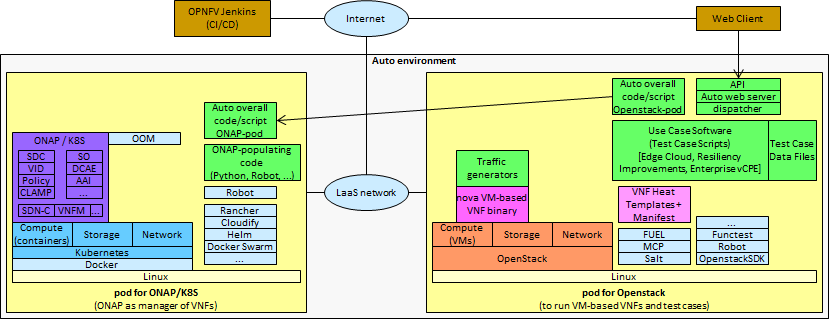
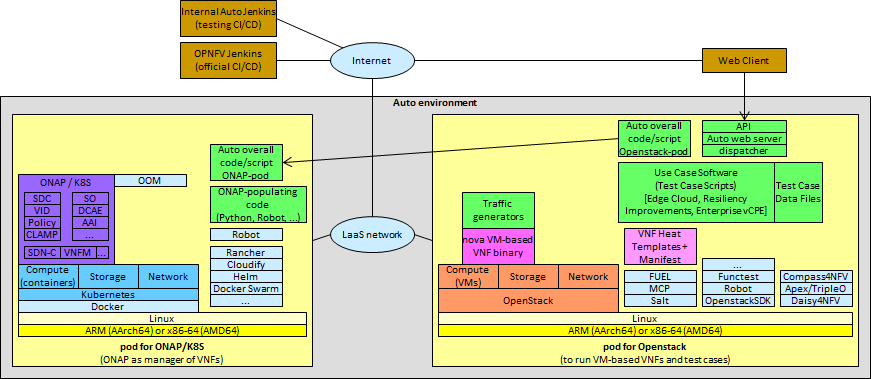
new version of Auto configuration guide for Gambia MS6
JIRA: AUTO-53

Updates, new content since last edit (R6.2, end of June 2018)

diff --git a/docs/release/configguide/Auto-featureconfig.rst b/docs/release/configguide/Auto-featureconfig.rst
@@ -17,9 +17,14 @@ Goal
 The goal of `Auto <http://docs.opnfv.org/en/latest/submodules/auto/docs/release/release-notes/index.html#auto-releasenotes>`_
 installation and configuration is to prepare an environment where the
 `Auto use cases <http://docs.opnfv.org/en/latest/submodules/auto/docs/release/userguide/index.html#auto-userguide>`_
-can be assessed, i.e. where the corresponding test cases can be executed and their results can be collected.
+can be assessed, i.e. where the corresponding test cases can be executed and their results can be collected for analysis.
+See the `Auto Release Notes <https://docs.opnfv.org/en/latest/submodules/auto/docs/release/release-notes/index.html#auto-releasenotes>`_
+for a discussion of the test results analysis loop.
 
 An instance of ONAP needs to be present, as well as a number of deployed VNFs, in the scope of the use cases.
+Simulated traffic needs to be generated, and then test cases can be executed. There are multiple parameters to
+the Auto environment, and the same set of test cases will be executed on each environment, so as to be able to
+evaluate the influence of each environment parameter.
 
 The initial Auto use cases cover:
 
@@ -29,35 +34,44 @@ The initial Auto use cases cover:
 * **Enterprise vCPE** (automation, cost optimization, and performance assurance of enterprise connectivity to Data Centers
   and the Internet)
 
-The general idea of Auto is to install an OPNFV environment (comprising at least one Cloud Manager),
+The general idea of the Auto feature configuration is to install an OPNFV environment (comprising at least one Cloud Manager),
 an ONAP instance, ONAP-deployed VNFs as required by use cases, possibly additional cloud managers not
 already installed during the OPNFV environment setup, traffic generators, and the Auto-specific software
 for the use cases (which can include test frameworks such as `Robot <http://robotframework.org/>`_ or
 `Functest <http://docs.opnfv.org/en/latest/submodules/functest/docs/release/release-notes/index.html#functest-releasenotes>`_).
+
 The ONAP instance needs to be configured with policies and closed-loop controls (also as required by use cases),
 and the test framework controls the execution and result collection of all the test cases. Then, test case execution
-results are analyzed, so as to fine-tune policies and closed-loop controls.
+results can be analyzed, so as to fine-tune policies and closed-loop controls, and to compare environment parameters.
 
-The following diagram illustrates two execution environments, for x86 architectures and for Arm architectures.
+The following diagram illustrates execution environments, for x86 architectures and for Arm architectures,
+and other environment parameters (see the Release Notes for a more detailed discussion on the parameters).
 The installation process depends on the underlying architecture, since certain components may require a
 specific binary-compatible version for a given x86 or Arm architecture. The preferred variant of ONAP is one
 that runs on Kubernetes, while all VNF types are of interest to Auto: VM-based or containerized (on any cloud
-manager), for x86 or for Arm. The initial VM-based VNFs will cover OpenStack, and in future versions,
-additional cloud managers will be considered. The configuration of ONAP and of test cases should not depend
-on the architecture.
+manager), for x86 or for Arm. In fact, even PNFs could be considered, to support the evaluation of hybrid PNF/VNF
+transition deployments (ONAP has the ability of also managing legacy PNFs).
+
+The initial VM-based VNFs will cover OpenStack, and in future Auto releases, additional cloud managers will be considered.
+The configuration of ONAP and of test cases should not depend on the underlying architecture and infrastructure.
 
 .. image:: auto-installTarget-generic.png
 
 
-For each component, various installer tools will be selected (based on simplicity and performance), and
-may change from one Auto release to the next. For example, the most natural installer for ONAP should be
-OOM (ONAP Operations Manager).
+For each component, various installer tools will be considered (as environment parameters), so as to enable comparison,
+as well as ready-to-use setups for Auto end-users. For example, the most natural installer for ONAP would be
+OOM (ONAP Operations Manager). For the OPNFV infrastructure, supported installer projects will be used: Fuel/MCP,
+Compass4NFV, Apex/TripleO, Daisy4NFV. Note that JOID was last supported in OPNFV Fraser 6.2, and is not supported
+anymore as of Gambia 7.0.
 
 The initial version of Auto will focus on OpenStack VM-based VNFs, onboarded and deployed via ONAP API
 (not by ONAP GUI, for the purpose of automation). ONAP is installed on Kubernetes. Two or more servers from LaaS
 are used: one or more to support an OpenStack instance as provided by the OPNFV installation via Fuel/MCP or other
-OPNFV installers (Compass4NFV, Apex/TripleO, Daisy4NFV, JOID), and the other(s) to support ONAP with Kubernetes
+OPNFV installers (Compass4NFV, Apex/TripleO, Daisy4NFV), and the other(s) to support ONAP with Kubernetes
 and Docker. Therefore, the VNF execution environment is composed of the server(s) with the OpenStack instance(s).
+Initial tests will also include ONAP instances installed on bare-metal servers (i.e. not directly on an OPNFV
+infrastructure; the ONAP/OPNFV integration can start at the VNF environment level; but ultimately, ONAP should
+be installed within an OPNFV infrastructure, for full integration).
 
 .. image:: auto-installTarget-initial.png
 
@@ -75,12 +89,17 @@ SDK, or OpenStack CLI, or even OpenStack Heat templates) would populate the Open
 
 .. image:: auto-OS-config4ONAP.png
 
+That script can also delete these created objects, so it can be used in tear-down procedures as well
+(use -del or --delete option). It is located in the `Auto repository <https://git.opnfv.org/auto/tree/>`_ ,
+under the setup/VIMs/OpenStack directory:
+
+* auto_script_config_openstack_for_onap.py
 
 
 Jenkins (or more precisely JJB: Jenkins Job Builder) will be used for Continuous Integration in OPNFV releases,
 to ensure that the latest master branch of Auto is always working. The first 3 tasks in the pipeline would be:
-install OpenStack instance via OPNFV installer (Fuel/MCP for example), configure the OpenStack instance for ONAP,
-install ONAP (using the OpenStack instance network IDs in the ONAP YAML file).
+install OpenStack instance via an OPNFV installer (Fuel/MCP, Compass4NFV, Apex/TripleO, Daisy4NFV), configure
+the OpenStack instance for ONAP, install ONAP (using the OpenStack instance network IDs in the ONAP YAML file).
 
 Moreover, Auto will offer an API, which can be imported as a module, and can be accessed for example
 by a web application. The following diagram shows the planned structure for the Auto Git repository,
@@ -96,8 +115,9 @@ Pre-configuration activities
 The following resources will be required for the initial version of Auto:
 
 * at least two LaaS (OPNFV Lab-as-a-Service) pods (or equivalent in another lab), with their associated network
-  information. Later, other types of target pods will be supported, such as clusters (physical bare metal or virtual).
-  The pods can be either x86 or Arm CPU architectures.
+  information. Later, other types of target pods will be supported, such as clusters (physical bare-metal or virtual).
+  The pods can be either x86 or Arm CPU architectures. An effort is currently ongoing (ONAP Integration team, and Auto team),
+  to ensure Arm binaries are available for all ONAP components in the official ONAP Docker registry.
 * the `Auto Git repository <https://git.opnfv.org/auto/tree/>`_
   (clone from `Gerrit Auto <https://gerrit.opnfv.org/gerrit/#/admin/projects/auto>`_)
 
@@ -106,7 +126,14 @@ The following resources will be required for the initial version of Auto:
 Hardware configuration
 ======================
 
-<TBC; large servers, at least 512G RAM, 1TB storage, 80-100 CPU threads>
+ONAP needs relatively large servers (at least 512G RAM, 1TB storage, 80-100 CPU threads). Initial deployment
+attempts on single servers did not complete. Current attempts use 3-server clusters, on bare-metal.
+
+For initial VNF deployment environments, virtual deployments by OPNFV installers on a single server should suffice.
+Later, if many large VNFs are deployed for the Auto test cases, and if heavy traffic is generated, more servers
+might be necessary. Also, if many environment parameters are considered, full executions of all test cases
+on all environment configurations could take a long time, so parallel executions of independent test case batches
+on multiple sets of servers and clusters might be considered.
 
 
 
@@ -123,10 +150,10 @@ Current Auto work in progress is captured in the
 OPNFV with OpenStack
 ~~~~~~~~~~~~~~~~~~~~
 
-The Auto installation uses the Fuel/MCP installer for the OPNFV environment (see the
+The first Auto installation used the Fuel/MCP installer for the OPNFV environment (see the
 `OPNFV download page <https://www.opnfv.org/software/downloads>`_).
 
-The following figure summarizes the two installation cases: virtual or baremetal.
+The following figure summarizes the two installation cases for Fuel: virtual or bare-metal.
 This OPNFV installer starts with installing a Salt Master, which then configures
 subnets and bridges, and install VMs (e.g., for controllers and compute nodes)
 and an OpenStack instance with predefined credentials.
@@ -134,8 +161,8 @@ and an OpenStack instance with predefined credentials.
 .. image:: auto-OPFNV-fuel.png
 
 
-The Auto version of OPNFV installation configures additional resources for the OpenStack virtual pod,
-as compared to the default installation. Examples of manual steps are as follows:
+The Auto version of OPNFV installation configures additional resources for the OpenStack virtual pod
+(more virtual CPUs and more RAM), as compared to the default installation. Examples of manual steps are as follows:
 
 .. code-block:: console
 
@@ -185,6 +212,17 @@ Note:
 * however, in the case of ARM, the OPNFV installation will fail, because there isn't enough space to install all required packages into
   the cloud image.
 
+Using the above as starting point, Auto-specific scripts have been developed, for each of the 4 OPNFV installers Fuel/MCP,
+Compass4NFV, Apex/TripleO, Daisy4NFV. Instructions for virtual deployments from each of these installers have been used, and
+sometimes expanded and clarified (missing details or steps from the instructions).
+They can be found in the `Auto repository <https://git.opnfv.org/auto/tree/>`_ , under the ci directory:
+
+* deploy-opnfv-fuel-ubuntu.sh
+* deploy-opnfv-compass-ubuntu.sh
+* deploy-opnfv-apex-centos.sh
+* deploy-opnfv-daisy-centos.sh
+
+
 
 ONAP on Kubernetes
 ~~~~~~~~~~~~~~~~~~
@@ -193,13 +231,13 @@ An ONAP installation on OpenStack has also been investigated, but we focus here 
 the ONAP on Kubernetes version.
 
 The initial focus is on x86 architectures. The ONAP DCAE component for a while was not operational
-on Kubernetes, and had to be installed separately on OpenStack. So the ONAP instance was a hybrid,
-with all components except DCAE running on Kubernetes, and DCAE running separately on OpenStack.
+on Kubernetes (with ONAP Amsterdam), and had to be installed separately on OpenStack. So the ONAP
+instance was a hybrid, with all components except DCAE running on Kubernetes, and DCAE running
+separately on OpenStack. Starting with ONAP Beijing, DCAE also runs on Kubernetes.
 
 For Arm architectures, specialized Docker images are being developed to provide Arm architecture
-binary compatibility.
-
-The goal for Auto is to use an ONAP instance where DCAE also runs on Kubernetes, for both architectures.
+binary compatibility. See the `Auto Release Notes <https://docs.opnfv.org/en/latest/submodules/auto/docs/release/release-notes/index.html#auto-releasenotes>~_
+for more details on the availability status of these Arm images in the ONAP Docker registry.
 
 The ONAP reference for this installation is detailed `here <http://onap.readthedocs.io/en/latest/submodules/oom.git/docs/oom_user_guide.html>`_.
 
@@ -217,6 +255,12 @@ Examples of manual steps for the deploy procedure are as follows:
     8  ./createConfig.sh -n onap
     9  cd ../oneclick
     10 ./createAll.bash -n onap
+
+Several automation efforts to integrate the ONAP installation in Auto CI are in progress.
+One effort involves using a 3-server cluster at OPNFV Pharos LaaS (Lab-as-a-Service).
+The script is available in the `Auto repository <https://git.opnfv.org/auto/tree/>`_ , under the ci directory::
+
+* deploy-onap.sh
 
 
 
@@ -248,7 +292,9 @@ Traffic Generator configuration
 Test Case software installation and execution control
 ^^^^^^^^^^^^^^^^^^^^^^^^^^^^^^^^^^^^^^^^^^^^^^^^^^^^^
 
-<TBC>
+<TBC; mention the management of multiple environments (characterized by their parameters), execution of all test cases
+in each environment, only a subset in official OPNFV CI/CD Jenkins due to size and time limits; then posting and analysis
+of results; failures lead to bug-fixing, successes lead to analysis for comparisons and fine-tuning>
 
 
 
@@ -272,7 +318,7 @@ Auto Wiki pages:
 
 OPNFV documentation on Auto:
 
-* `Auto release notes <http://docs.opnfv.org/en/latest/release/release-notes.html>`_
+* `Auto release notes <https://docs.opnfv.org/en/latest/submodules/auto/docs/release/release-notes/index.html#auto-releasenotes>`_
 * `Auto use case user guides <http://docs.opnfv.org/en/latest/submodules/auto/docs/release/userguide/index.html#auto-userguide>`_
 
 
